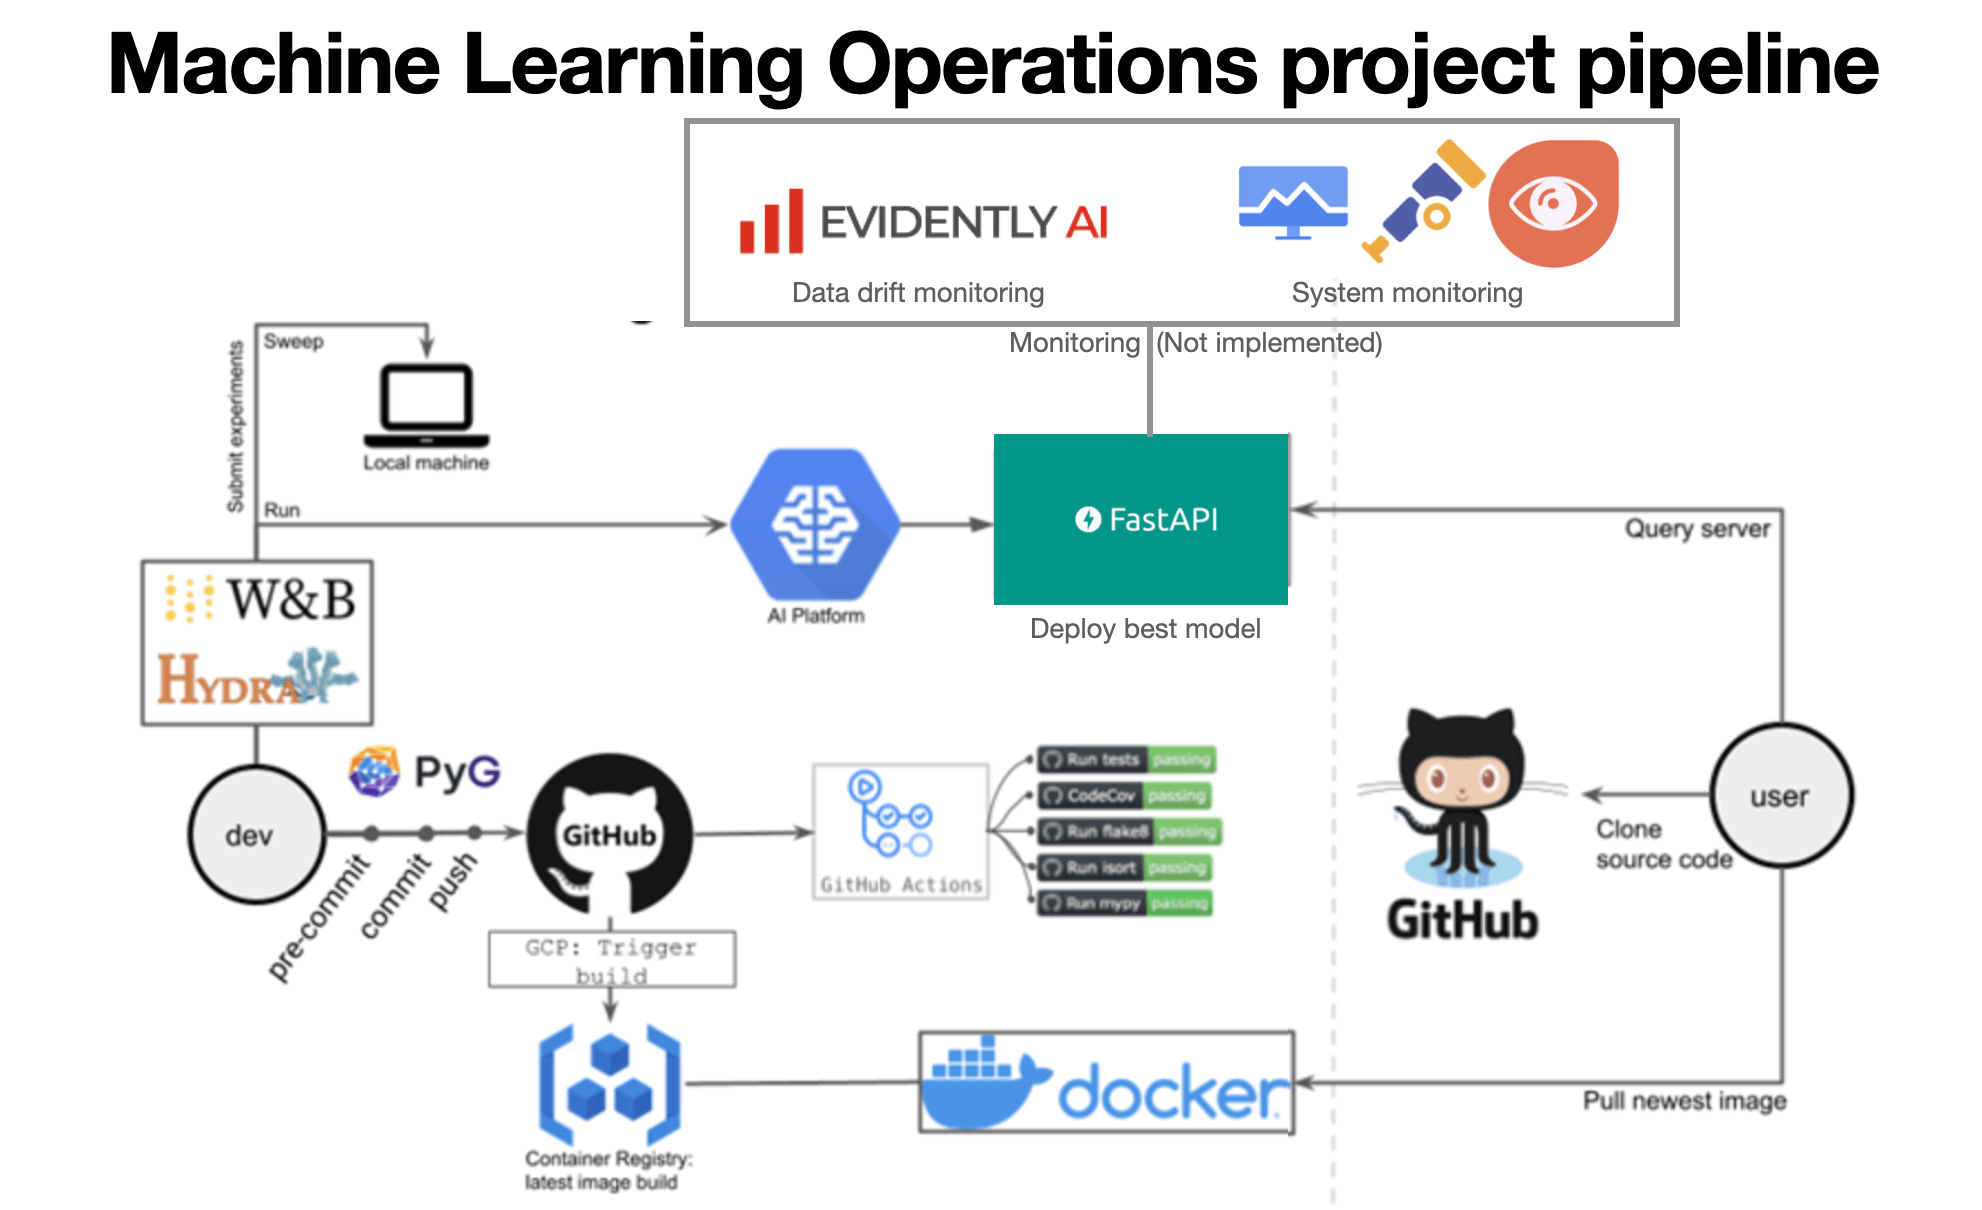
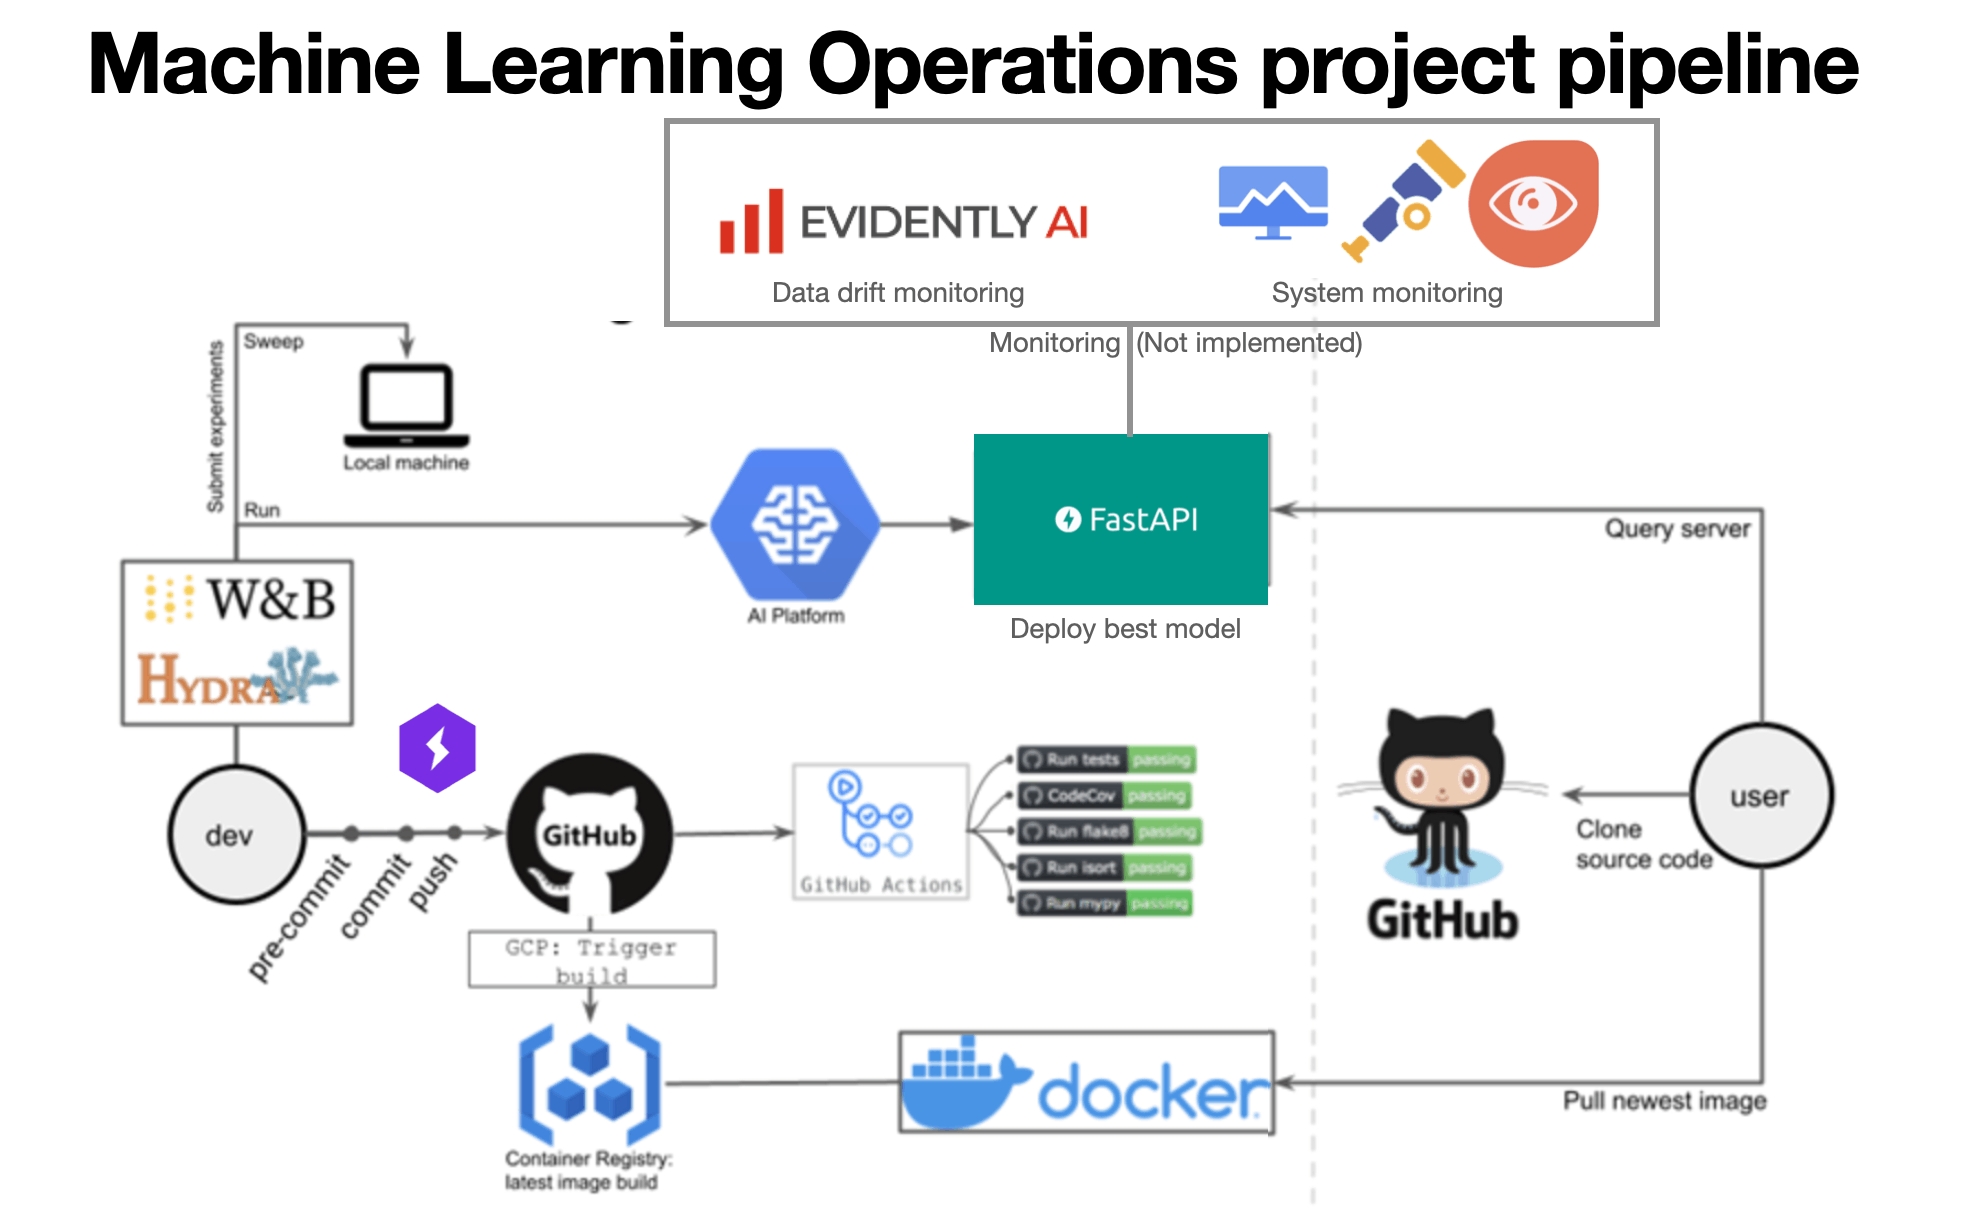
figure for q.25 edited

diff --git a/reports/README.md b/reports/README.md
@@ -461,7 +461,7 @@ All three members used less than 20 dollars of credit during development. The mo
 >
 > Answer:
 
-[this figure](figures/project_pipeline.png)
+The starting point of the diagram seen in [this figure](figures/project_pipeline.png) is our local setup, where we integrated pytorch lightning, pytorch, W&B, Hydra configuration files, and other small frameworks into our code. Whenever a developer (group member) would want to commit code to the github repository we set up pre-commit hooks that using flake8, black and isort would ensure a common code structure and convention. If the committed code adhered to the standards set out by the pre-commit hooks and is pushed to Github, it auto-triggers a series of github actions that check the code based on unittests. Moreover, if the code succesfully passes the github actions, we trigger a build of the trainer dockerfile using GCP Triggers, which will then build the docker image and store it in the GC Container Registry.
 
 ### Question 26
 
